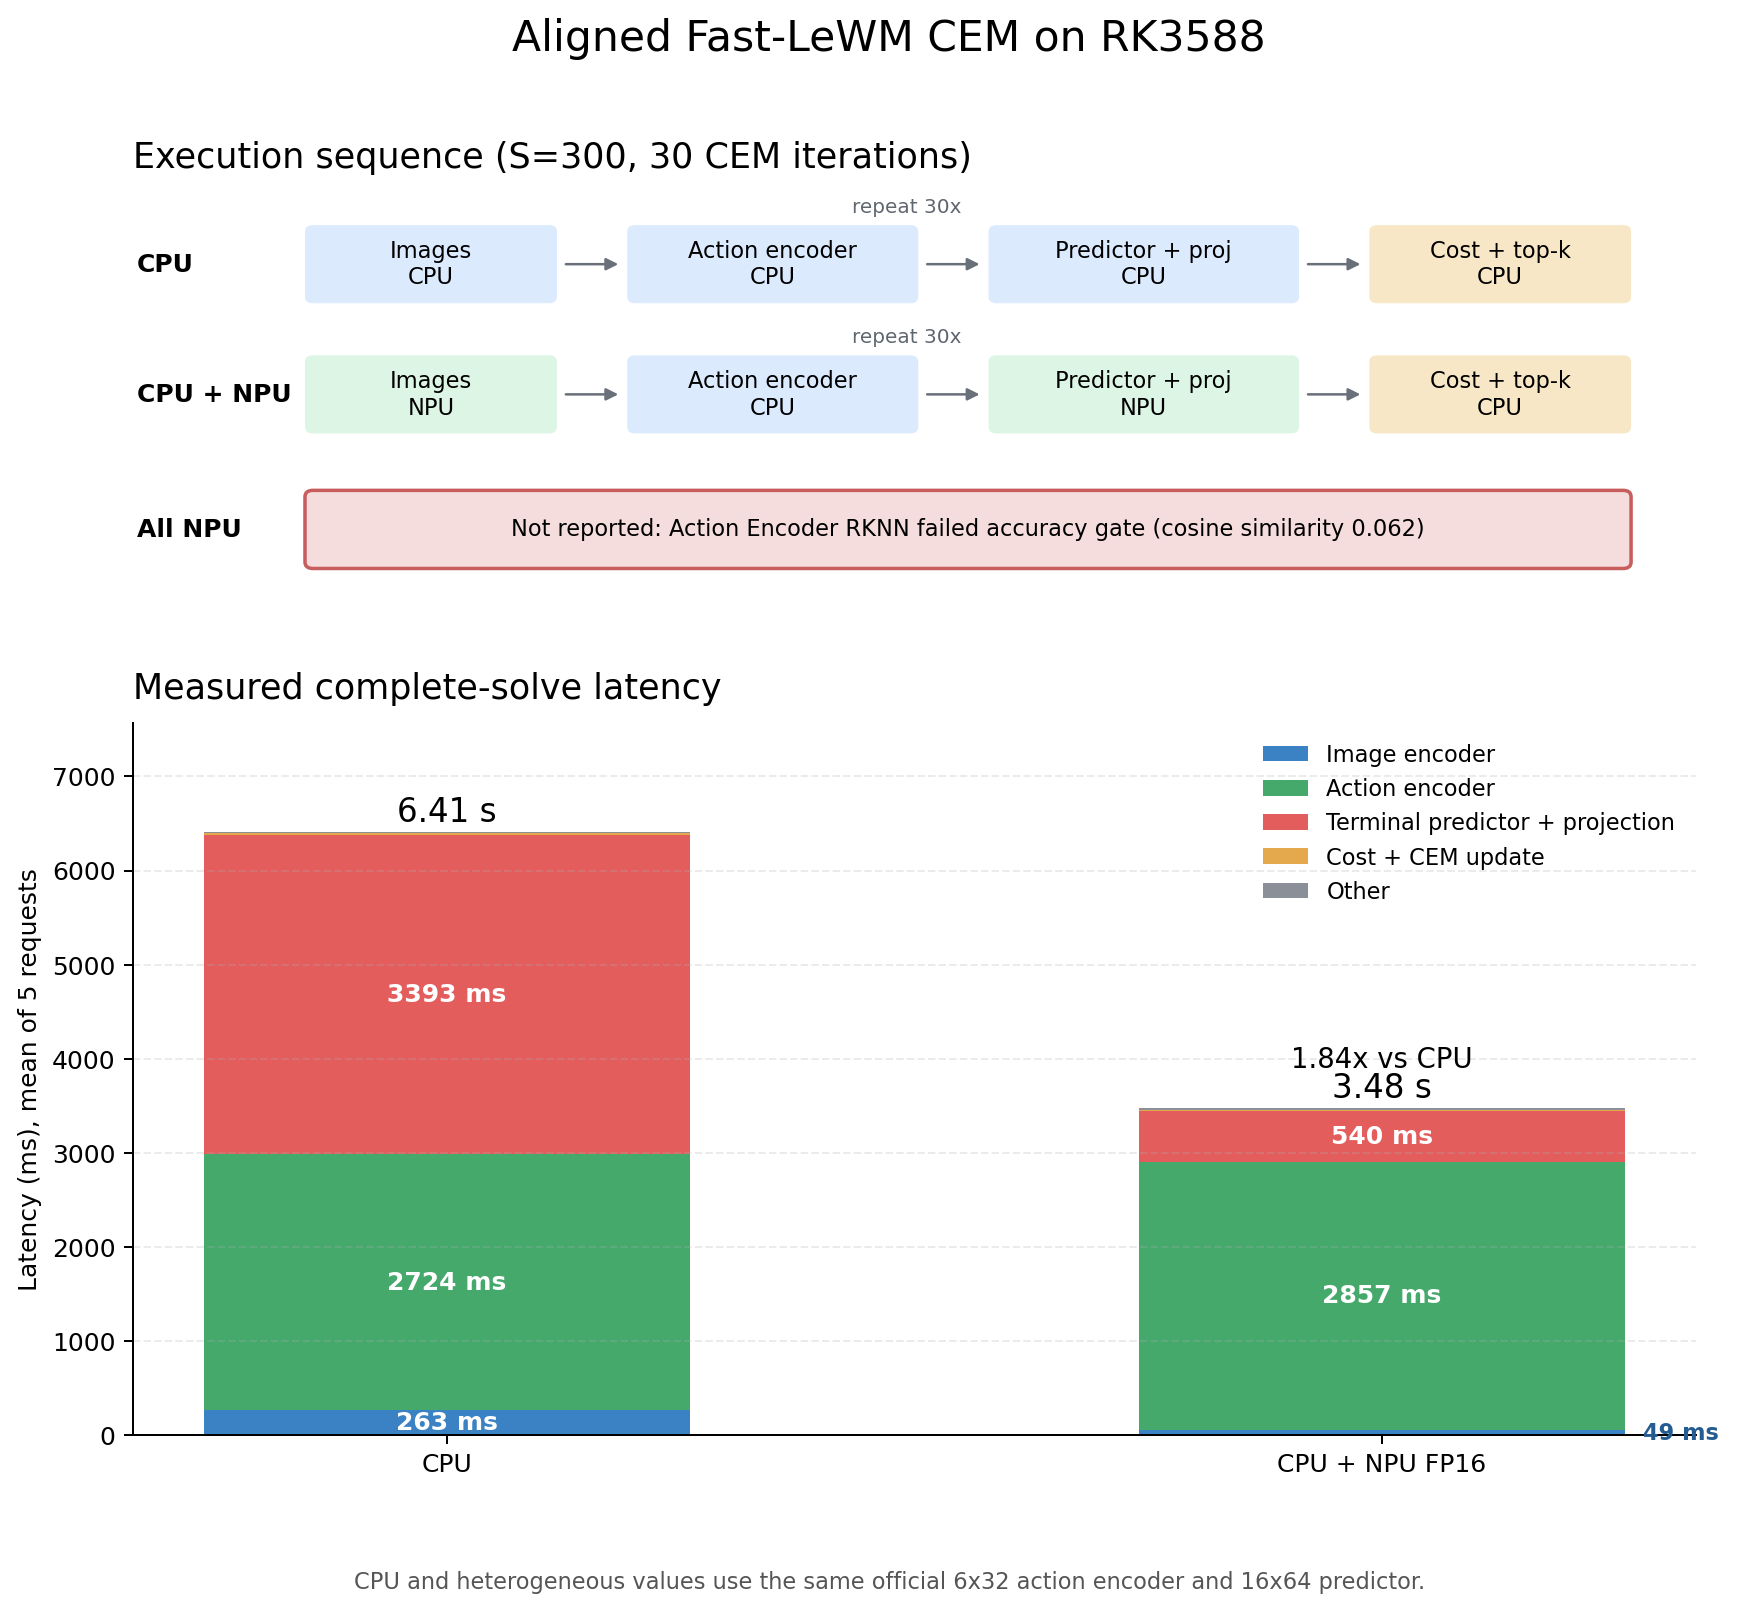
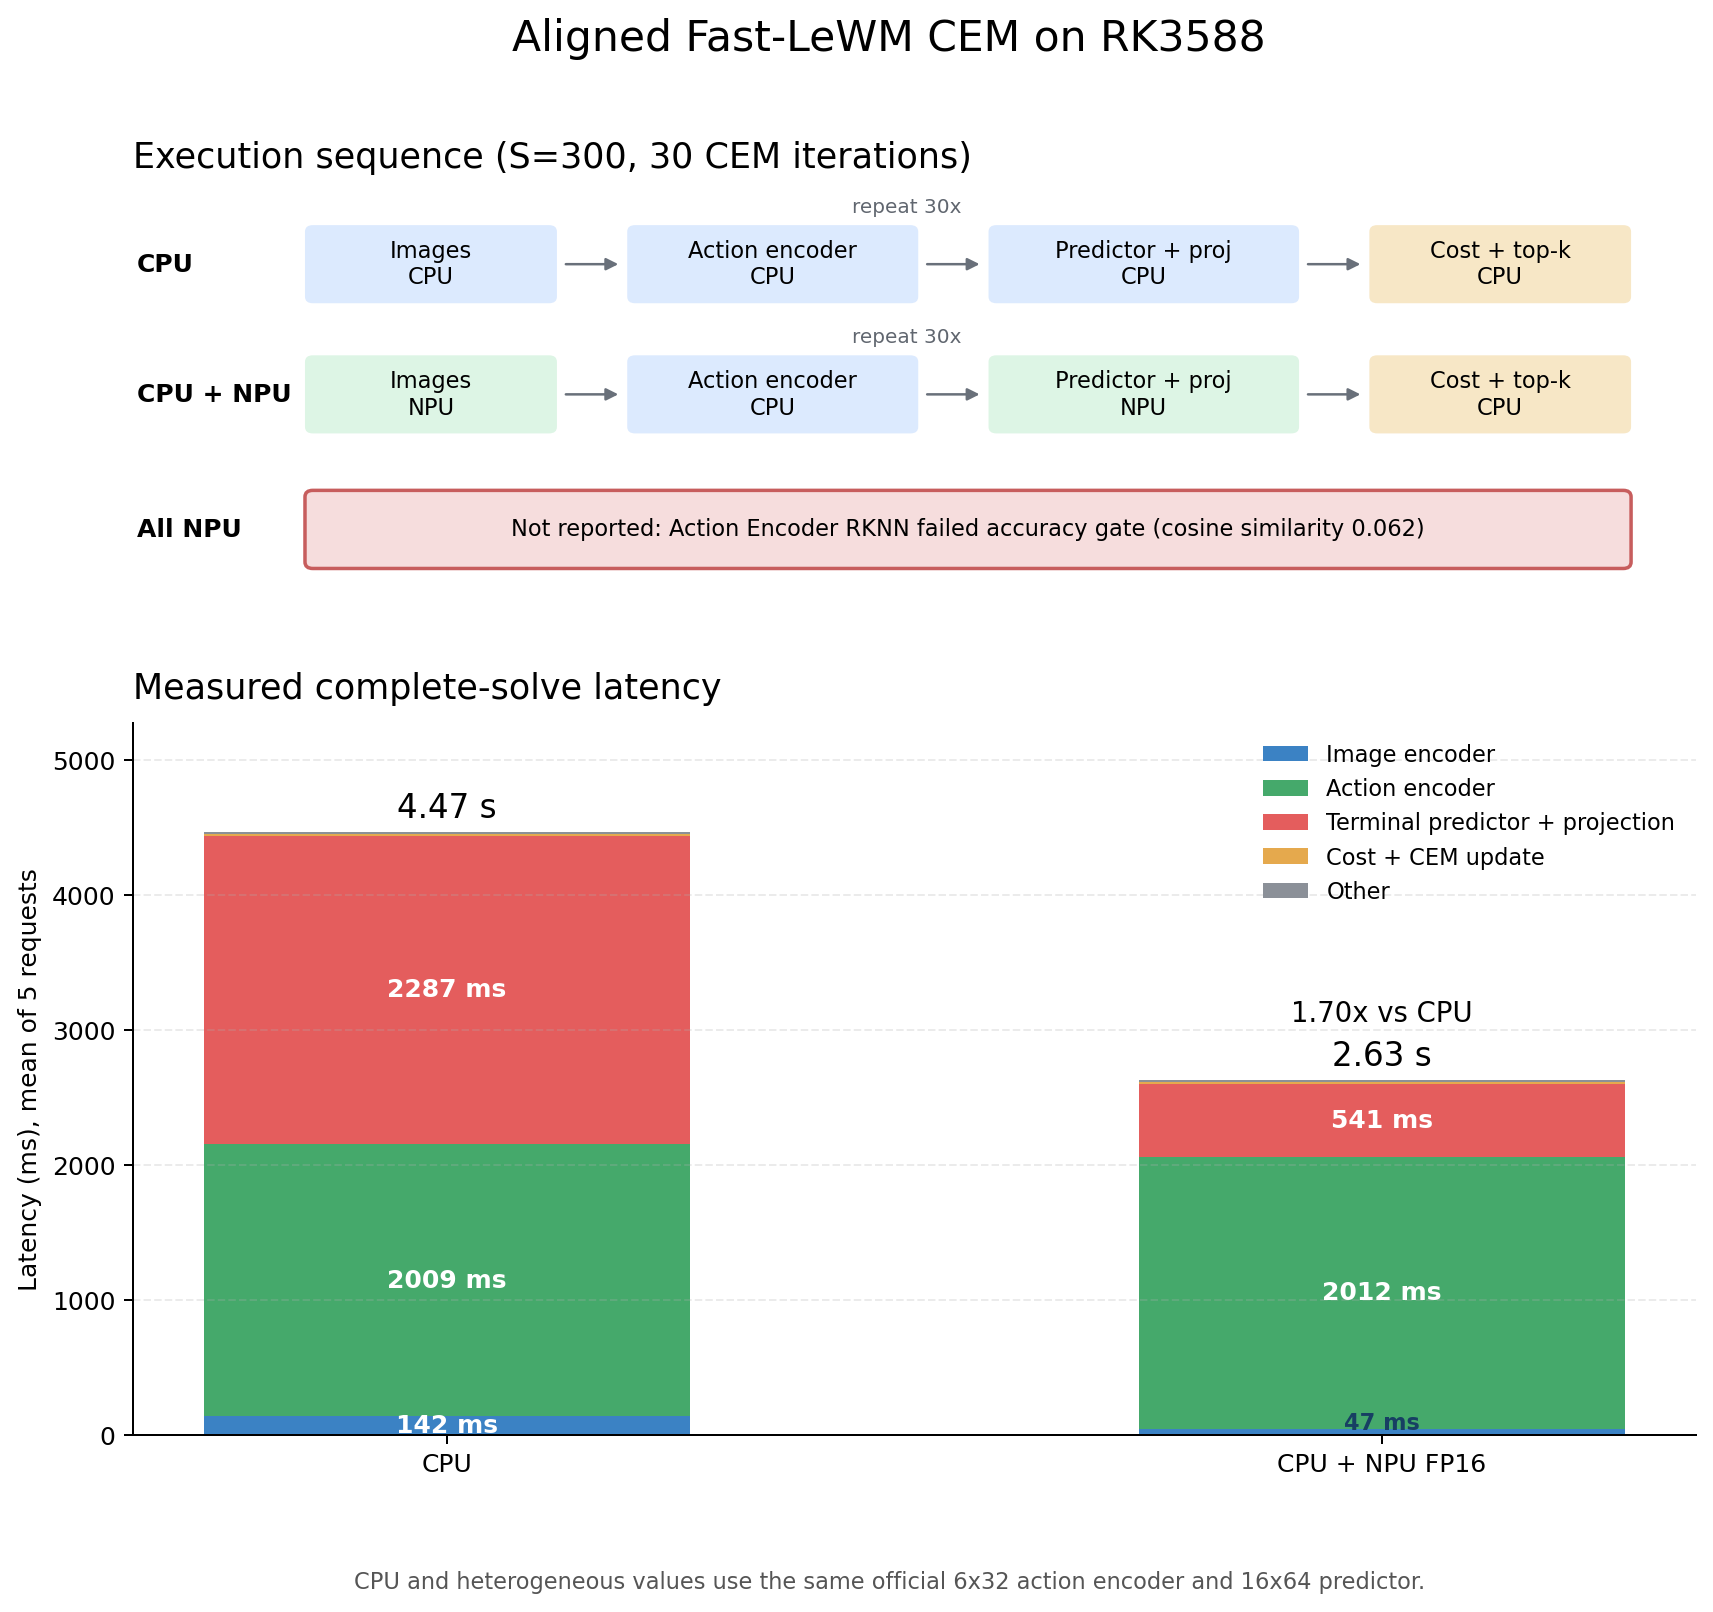
Fix CPU thread oversubscription in planner benchmarks

diff --git a/scripts/diagnose_action_slowdown_board.py b/scripts/diagnose_action_slowdown_board.py
@@ -1,0 +1,121 @@
+"""Isolate causes of CPU action-encoder slowdown in the heterogeneous loop."""
+
+import json
+import random
+import sys
+import time
+import argparse
+from pathlib import Path
+
+import numpy as np
+import torch
+
+sys.path.insert(0, "/root/Fast-LeWorldModel")
+
+from module import ActionPrefixEmbedder
+from rknnlite.api import RKNNLite
+
+
+WEIGHTS_PATH = "/root/Fast-LeWorldModel/weights/full_model_state.pt"
+PREDICTOR_PATH = "/root/Fast-LeWorldModel/predictor_terminal_with_proj_b300_fp16.rknn"
+THERMAL_ROOT = Path("/sys/class/thermal")
+
+
+def temperature_c():
+    values = []
+    for zone in THERMAL_ROOT.glob("thermal_zone*"):
+        try:
+            if (zone / "type").read_text().strip() in {"soc-thermal", "bigcore0-thermal", "bigcore1-thermal", "npu-thermal"}:
+                values.append(int((zone / "temp").read_text()) / 1000)
+        except OSError:
+            pass
+    return max(values) if values else None
+
+
+def build_action_encoder():
+    state = torch.load(WEIGHTS_PATH, map_location="cpu", weights_only=True)
+    model = ActionPrefixEmbedder(
+        input_dim=10, emb_dim=192, use_latent_condition=True, latent_dim=192,
+        transformer_depth=3, transformer_heads=6, transformer_dim_head=32,
+        transformer_mlp_dim=768,
+    ).eval()
+    model.load_state_dict({
+        key.removeprefix("action_encoder.impl."): value
+        for key, value in state.items() if key.startswith("action_encoder.impl.")
+    })
+    return model
+
+
+def run_condition(model, rknn, actions, latent, condition, iterations=30):
+    times = []
+    with torch.no_grad():
+        for _ in range(iterations):
+            start = time.perf_counter_ns()
+            act_emb = model(actions, return_last_only=True, latent=latent)
+            times.append((time.perf_counter_ns() - start) / 1e6)
+
+            if condition == "numpy_copy":
+                latent.numpy().astype(np.float32)
+                act_emb.numpy().astype(np.float32)
+            elif condition == "sleep_18ms":
+                time.sleep(0.018)
+            elif condition == "npu_predictor":
+                rknn.inference(inputs=[
+                    latent.numpy().astype(np.float32),
+                    act_emb.numpy().astype(np.float32),
+                ])
+    return times
+
+
+def main():
+    parser = argparse.ArgumentParser()
+    parser.add_argument("--threads", type=int, default=4)
+    args = parser.parse_args()
+    torch.manual_seed(11)
+    torch.set_num_threads(args.threads)
+    model = build_action_encoder()
+    actions = torch.randn(300, 5, 10)
+    latent = torch.randn(300, 1, 192)
+
+    rknn = RKNNLite()
+    if rknn.load_rknn(PREDICTOR_PATH) != 0:
+        raise RuntimeError("Unable to load predictor RKNN")
+    if rknn.init_runtime(core_mask=RKNNLite.NPU_CORE_0_1_2) != 0:
+        raise RuntimeError("Unable to initialize RKNN runtime")
+
+    conditions = ["action_only", "numpy_copy", "sleep_18ms", "npu_predictor"]
+    records = {name: [] for name in conditions}
+    try:
+        run_condition(model, rknn, actions, latent, "action_only", iterations=5)
+        for round_index in range(5):
+            order = conditions.copy()
+            random.Random(100 + round_index).shuffle(order)
+            for condition in order:
+                before = temperature_c()
+                times = run_condition(model, rknn, actions, latent, condition)
+                records[condition].append({
+                    "round": round_index,
+                    "mean_ms": float(np.mean(times)),
+                    "std_ms": float(np.std(times)),
+                    "temperature_before_c": before,
+                    "temperature_after_c": temperature_c(),
+                })
+    finally:
+        rknn.release()
+
+    summary = {}
+    for condition, rounds in records.items():
+        means = [item["mean_ms"] for item in rounds]
+        summary[condition] = {
+            "mean_ms": float(np.mean(means)),
+            "round_std_ms": float(np.std(means)),
+            "rounds": rounds,
+        }
+    baseline = summary["action_only"]["mean_ms"]
+    for values in summary.values():
+        values["delta_vs_action_only_pct"] = (values["mean_ms"] / baseline - 1) * 100
+    print(json.dumps(summary, indent=2))
+
+
+if __name__ == "__main__":
+    main()

diff --git a/scripts/plot_breakdown.py b/scripts/plot_breakdown.py
@@ -64,7 +64,7 @@ def draw_breakdown(ax, data):
             if value >= 80:
                 ax.text(bar.get_x() + bar.get_width() / 2, bottom + value / 2, f"{value:.0f} ms", ha="center", va="center", color="white", fontsize=10, fontweight="bold")
             elif key == "image_encoder_ms":
-                ax.text(bar.get_x() + bar.get_width() + 0.02, bottom + value / 2, f"{value:.0f} ms", ha="left", va="center", color="#245C91", fontsize=9, fontweight="bold")
+                ax.text(bar.get_x() + bar.get_width() / 2, bottom + value + 45, f"{value:.0f} ms", ha="center", va="center", color="#173F63", fontsize=9, fontweight="bold")
         bottoms = [bottom + value for bottom, value in zip(bottoms, values)]
 
     for index, record in enumerate(records):

diff --git a/rk3588_planner_server.py b/rk3588_planner_server.py
@@ -25,6 +25,12 @@ from torchvision.transforms import v2 as transforms
 from PIL import Image
 import io
 
+# The service is pinned to four Cortex-A76 cores. Avoid running eight default
+# PyTorch workers on that four-core affinity mask, which adds large scheduler
+# variance to the CPU action encoder.
+torch.set_num_threads(4)
+torch.set_num_interop_threads(1)
+
 sys.path.insert(0, '/root/Fast-LeWorldModel')
 from module import ActionPrefixEmbedder, ARPredictor, MLP
 

diff --git a/README.md b/README.md
@@ -10,10 +10,10 @@ Tested on RK3588 with four Cortex-A76 cores pinned, three-core NPU, RKNN Runtime
 
 | Metric | CPU | CPU + NPU FP16 | Result |
 |---|---:|---:|---:|
-| Complete CEM solve | 6.41 s | 3.48 s | **1.84x speedup** |
-| Image encoding | 263 ms | 49 ms | **NPU ViT + projector** |
-| Action-prefix encoder | 2.72 s | 2.86 s | CPU in both runs |
-| Terminal predictor + projection | 3.39 s | 540 ms | **6.28x contribution speedup** |
+| Complete CEM solve | 4.47 s | 2.63 s | **1.70x speedup** |
+| Image encoding | 142 ms | 47 ms | **NPU ViT + projector** |
+| Action-prefix encoder | 2.009 s | 2.012 s | effectively identical |
+| Terminal predictor + projection | 2.29 s | 541 ms | **4.23x contribution speedup** |
 
 Workload: `300` candidates, `30` CEM iterations, `top-k=30`, five action blocks, one terminal latent per candidate. Complete-solve stages are means of five repeated requests. Raw measurements are in [results/latest_benchmark.json](results/latest_benchmark.json).
 
@@ -42,13 +42,13 @@ five action blocks
   -> terminal latent cost
 ```
 
-With this alignment, NPU runs the fused `ViT + projector` and fused terminal `predictor + pred_proj`. This reduces a complete `300 x 30` CEM solve from 6.41 seconds to 3.48 seconds (`1.84x`). NPU acceleration is therefore effective, but the CPU action-prefix encoder is now the dominant bottleneck at roughly 82% of heterogeneous solve time. The current configuration is still not suitable for high-frequency closed-loop control without further planning-budget or action-encoder optimization.
+With this alignment, NPU runs the fused `ViT + projector` and fused terminal `predictor + pred_proj`. With PyTorch workers matched to the four pinned CPU cores, this reduces a complete `300 x 30` CEM solve from 4.47 seconds to 2.63 seconds (`1.70x`). NPU acceleration is therefore effective, but the CPU action-prefix encoder is now the dominant bottleneck at roughly 77% of heterogeneous solve time. The current configuration is still not suitable for high-frequency closed-loop control without further planning-budget or action-encoder optimization.
 
 ## Why Action Encoding Is Slightly Slower
 
-The heterogeneous run uses exactly the same CPU Action Encoder, weights, input shape, and terminal-only semantics as the CPU run. Across five requests it rises from `2723.66 ms` to `2857.19 ms`, a `4.90%` increase over all 30 CEM iterations. This is much smaller than the earlier single-run gap, but it is repeatable.
+The earlier heterogeneous result appeared `4.90%` slower in Action Encoder, but a controlled same-process experiment disproved NPU interference as the main cause. The service was pinned to four Cortex-A76 cores while PyTorch created eight workers, making separate benchmark processes sensitive to scheduler state.
 
-CPU frequency was fixed at `2.352 GHz` and NPU frequency at `1.0 GHz`, so CPU DVFS is not the explanation. The leading cause is SoC-level interference from alternating CPU and NPU work: shared DDR bandwidth and cache state, RKNN driver/runtime transitions, and possible asynchronous NPU tail work disturb the following CPU phase. Hardware PMU counters are still needed to separate those effects precisely; this is a measured systems effect, not a change in Action Encoder computation.
+With four PyTorch workers, five complete requests measure `2008.92 ms` on CPU and `2012.31 ms` in the heterogeneous path, a difference of only `0.17%`. In the isolated experiment, NumPy conversion added `0.10%`, a real NPU Predictor between Action Encoder calls added `0.17%`, and a matched sleep control changed `-0.32%`. CPU and NPU frequencies remained locked at `2.352 GHz` and `1.0 GHz`. The earlier gap was therefore a thread oversubscription and cross-process measurement artifact, not meaningful transfer, frequency, or NPU contention overhead.
 
 ## Full-NPU Baseline
 
@@ -86,6 +86,7 @@ results/latest_benchmark.json       Latest raw measurements
 scripts/plot_breakdown.py           Breakdown figure generator
 scripts/validate_action_encoder_board.py  Board-side RKNN accuracy gate
 scripts/validate_vit_board.py       Board-side ViT/projector accuracy gate
+scripts/diagnose_action_slowdown_board.py  Controlled slowdown isolation
 rk3588_planner_server.py            Board-side planner service
 board_eval_v2.py                    Board-side official CEM evaluation path
 run_pusht_eval_official.py          Host-side evaluation client
